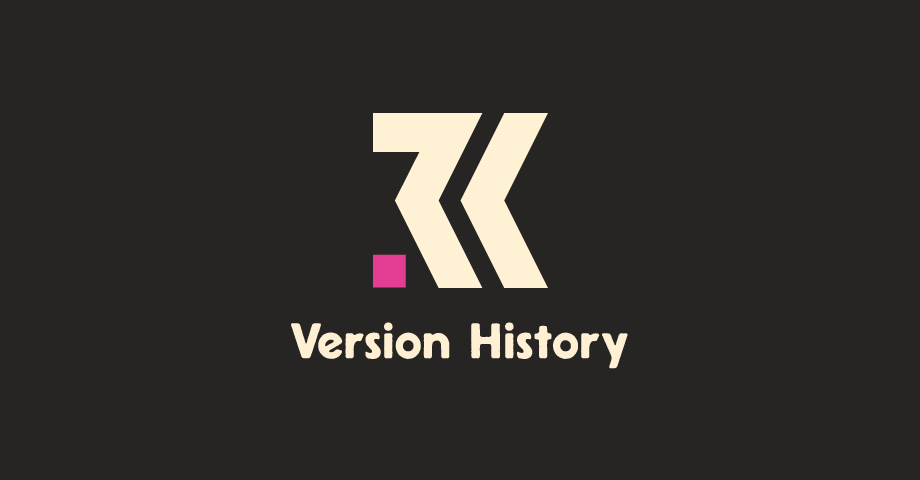
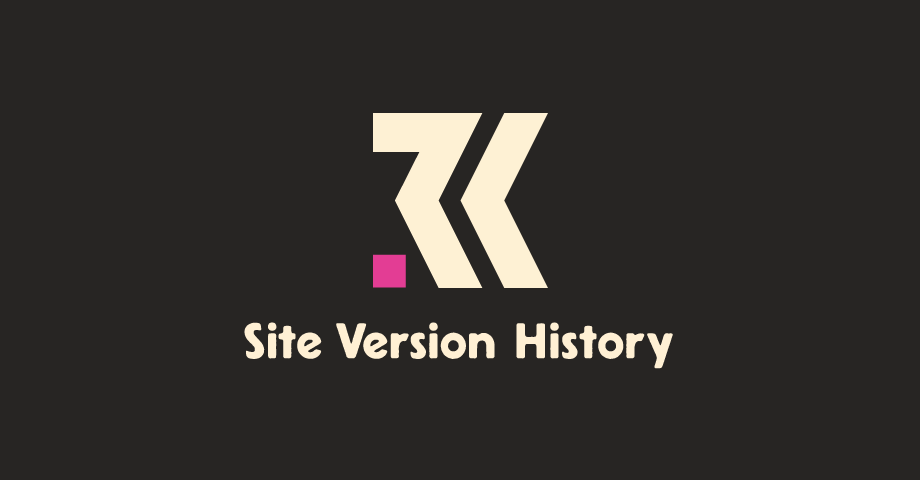
OG images

Changed region(s): [[0.2435, 0.6562, 0.7304, 0.7812]]

diff --git a/config/collections.js b/config/collections.js
@@ -2,6 +2,7 @@ const fs = require('fs')
 const writingStats = require('writing-stats')
 const moment = require('moment')
 const production = require('../src/_data/site/production')
+const { url } = require('inspector')
 
 function processPostFile(filePath) {
     try {
@@ -56,6 +57,34 @@ const makePath = (type) => {
 }
 
 module.exports = {
+    pagesForOg: (collectionApi) => {
+        const pages = collectionApi.getAll()
+            .filter(p => {
+                const notAPost = !['post', 'link', 'almanac', 'changelog', 'note'].includes(p.data.layout)
+                const hasNavigation = p.data.eleventyNavigation
+
+                return notAPost && hasNavigation
+            }).map(p => {
+                return {
+                    title: p.data.title.toLowerCase(),
+                    url: p.url,
+                    icon: p.url.startsWith('/notes/') ? 'signature' : 'logo'
+                }
+            })
+
+        return [
+            ...pages,
+            {
+                title: 'from the desk of robb knight',
+                url: '/notes/single/',
+                icon: 'signature',
+            }
+        ]
+    },
+    postsForOg: (collectionApi) => {
+        return collectionApi.getAll()
+            .filter(p => ['post', 'link', 'almanac', 'changelog'].includes(p.data.layout))
+    },
     everything: (collectionApi) => {
         return collectionApi.getAll()
             .filter(p => ['post', 'link', 'almanac', 'changelog', 'note'].includes(p.data.layout))

diff --git a/config/filters.js b/config/filters.js
@@ -69,14 +69,6 @@ module.exports = {
         if (!content) return ''
         return marked.parseInline(content)
     },
-    getFirstAttachment: (post) => {
-        if (post && post.attachments && post.attachments.length > 0)
-        {
-            return post.attachments[0].url ? post.attachments[0].url : post.attachments[0]
-        }
-
-        return 'https://rknight.me/assets/img/preview_small.png'
-    },
     getTypeEmoji: (type) => _getTypeEmoji(type),
     getPostEmoji: (data) => {
         if (data.layout === 'link')
@@ -235,5 +227,26 @@ module.exports = {
         }
 
         return content
+    },
+    getTitleForOg: (post) => {
+        if (post.data.layout === 'almanac')
+        {
+            return `${_getTypeEmoji(post.data.type)} ${decode(post.data.title)}`
+        }
+
+        return decode(post.data.title)
+    },
+    getOgImageUrl: (page) => {
+        if (page.attachments && page.attachments.length > 0)
+        {
+            return page.attachments[0].url ? page.attachments[0].url : page.attachments[0]
+        }
+
+        let path = page.url
+        if (path.startsWith('/notes/') && path !== '/notes/') {
+            path = '/notes/single/'
+        }
+        const url = encodeURIComponent(`https://rknight.me/opengraph${path}`)
+        return `https://v1.screenshot.11ty.dev/${url}/opengraph`
     }
 }

diff --git a/src/assets/css/_design.css b/src/assets/css/_design.css
@@ -10,7 +10,8 @@
 
 .logo-dot {
     fill: var(--primary);
-    color: var(--primary)
+    color: var(--primary);
+    margin-left: -3px;
 }
 
 .design--logo {

diff --git a/src/pages/log/versions.md b/src/pages/log/versions.md
@@ -1,5 +1,5 @@
 ---
-title: Version History
+title: Site Version History
 subtitle: Every version of my site I have been able to find.
 layout: base
 permalink: 'log/versions/index.html'

diff --git a/src/pages/intersect/entries/programming/applescript.md b/src/pages/intersect/entries/programming/applescript.md
@@ -1,5 +1,6 @@
 ---
 title: AppleScript
+permalink: intersect/programming/applescript/index.html
 eleventyNavigation:
   key: AppleScript
   parent: Programming

diff --git a/src/pages/intersect/entries/programming/imagemagick.md b/src/pages/intersect/entries/programming/imagemagick.md
@@ -1,5 +1,6 @@
 ---
 title: Imagemagick
+permalink: intersect/programming/imagemagick/index.html
 eleventyNavigation:
   key: Imagemagick
   parent: Programming

diff --git a/src/pages/intersect/entries/programming/appdev.md b/src/pages/intersect/entries/programming/appdev.md
@@ -1,5 +1,6 @@
 ---
 title: App Development
+permalink: intersect/programming/appdev/index.html
 eleventyNavigation:
   key: AppDev
   title: App Development

diff --git a/src/pages/intersect/entries/programming/electron.md b/src/pages/intersect/entries/programming/electron.md
@@ -1,5 +1,6 @@
 ---
 title: Electron
+permalink: intersect/programming/electron/index.html
 eleventyNavigation:
   key: Electron
   parent: Programming

diff --git a/src/pages/intersect/entries/programming/markdown.md b/src/pages/intersect/entries/programming/markdown.md
@@ -1,5 +1,6 @@
 ---
 title: Markdown
+permalink: intersect/programming/markdown/index.html
 eleventyNavigation:
   key: Markdown
   parent: Programming

diff --git a/src/pages/intersect/entries/programming/js.md b/src/pages/intersect/entries/programming/js.md
@@ -1,5 +1,6 @@
 ---
 title: Javascript
+permalink: intersect/programming/js/index.html
 eleventyNavigation:
   key: Javascript
   parent: Programming

diff --git a/src/pages/intersect/entries/programming/bash.md b/src/pages/intersect/entries/programming/bash.md
@@ -1,5 +1,6 @@
 ---
 title: Bash/Terminal
+permalink: intersect/programming/bash/index.html
 eleventyNavigation:
   key: Bash
   parent: Programming

diff --git a/src/pages/intersect/entries/programming/swiftui.md b/src/pages/intersect/entries/programming/swiftui.md
@@ -1,5 +1,6 @@
 ---
 title: SwiftUI
+permalink: intersect/programming/swiftui/index.html
 eleventyNavigation:
   key: SwiftUI
   parent: Programming
